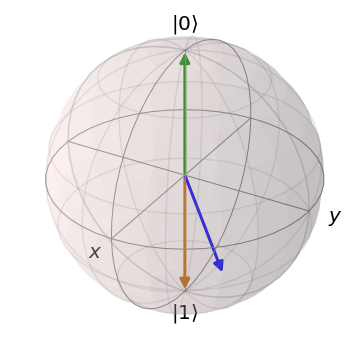
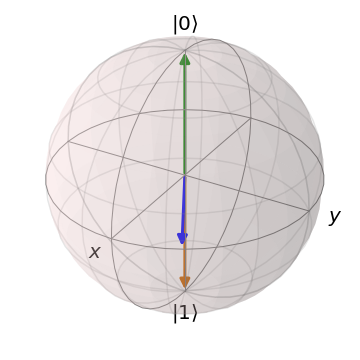
unexpected behaviour with short time windows

Changed region(s): [[0.55, 0.5806, 0.6417, 0.7639], [0.4889, 0.4889, 0.55, 0.6722]]

diff --git a/qctrl.py b/qctrl.py
@@ -156,7 +156,7 @@ class Agent:
 
 
 def train_agent(agent, qtarget, qstart, start, mag_field, dt, time_ev_func, 
-                fidelity_func, episodes, episode_length, epsilon, alpha, verbose=None, check_norm=True, make_gif=None):
+                fidelity_func, episodes, episode_length, epsilon, alpha, verbose=None, check_norm=True, make_gif=False):
     '''
     Training function. The function trains the agent for n=episodes episodes, each of whom lasts episode_length time steps of length dt.
     Fidelity_func is used as the reward function.
@@ -288,7 +288,7 @@ if __name__ == "__main__":
     start = [0,0]
     env, rewards, _ = train_agent(learner, qtarget, qstart, start, mag_field,
                     dt, time_evolution, compute_fidelity, episodes, episode_length, 
-                    epsilon, alpha)
+                    epsilon, alpha, make_gif=1000)
 
     # plot result
     fname = 'train_result'+'_'+str(a)+'.png'

diff --git a/quantum_state.py b/quantum_state.py
@@ -76,7 +76,7 @@ def time_evolution(psi, dt, field, euler=False):
 
 
 def compute_fidelity(target, psi):
-    F = np.abs(np.vdot(target, psi))
+    F = np.abs(np.vdot(target, psi))**2
     return F
 
 
